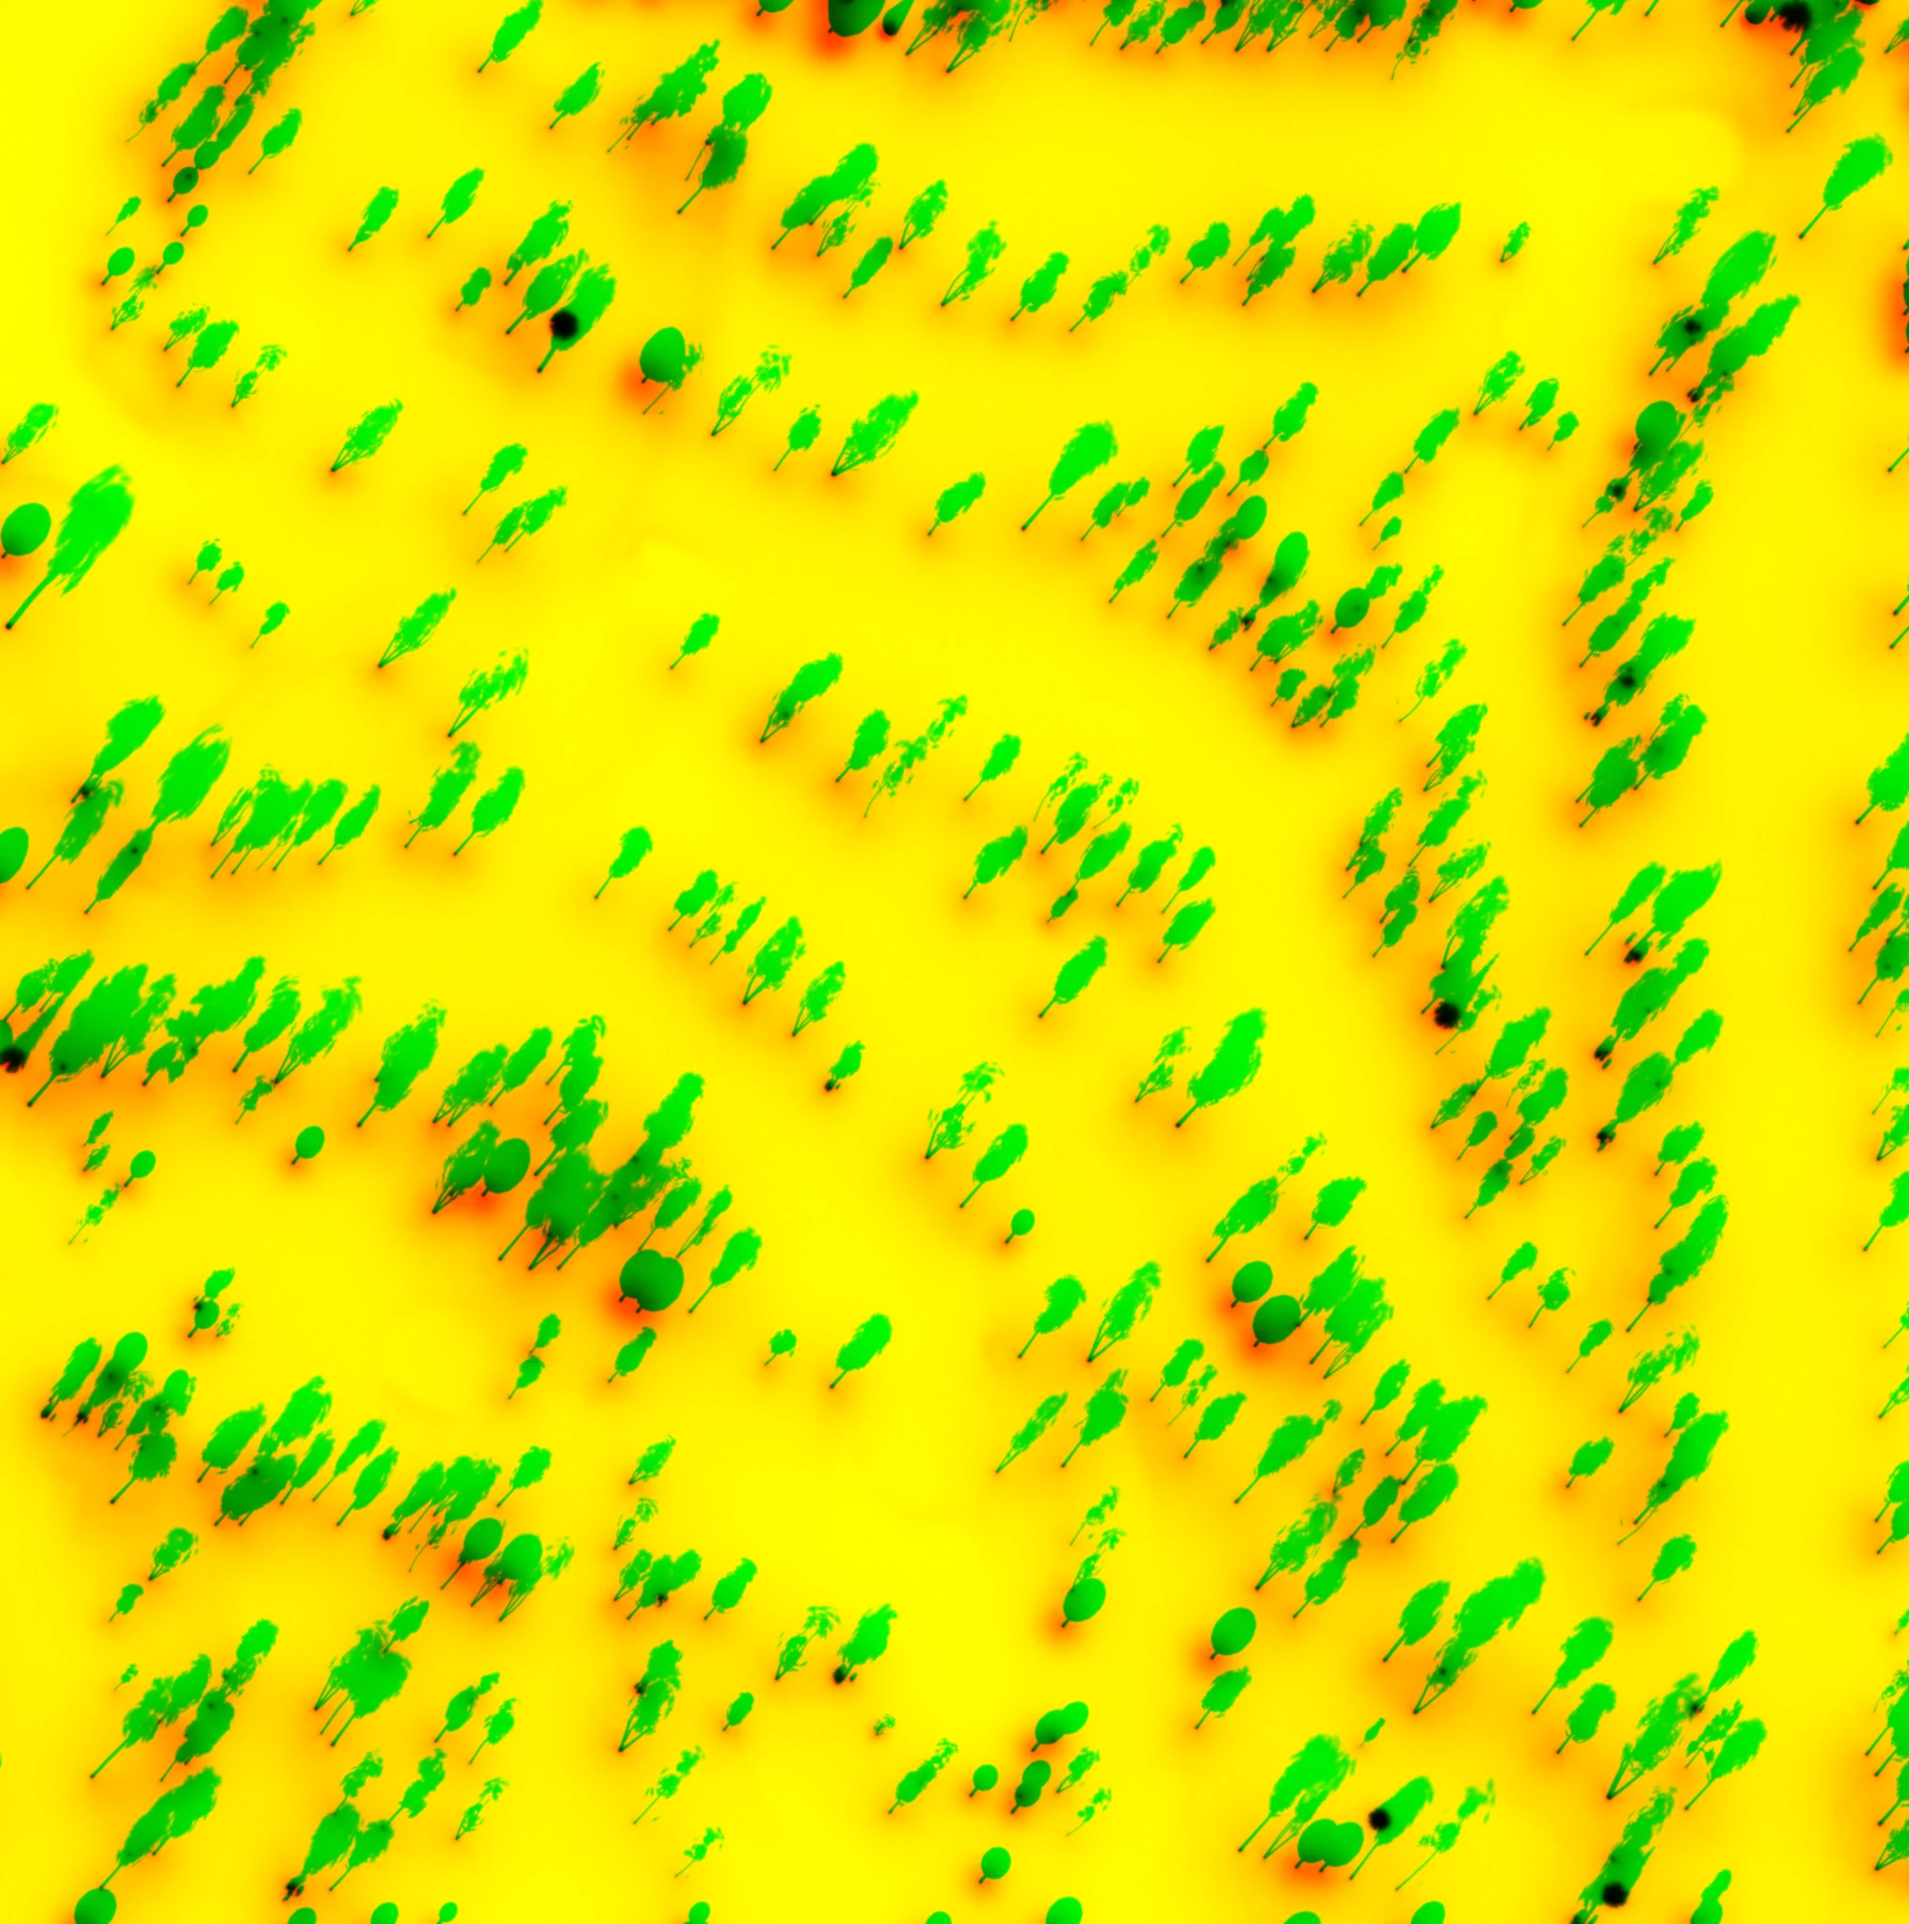
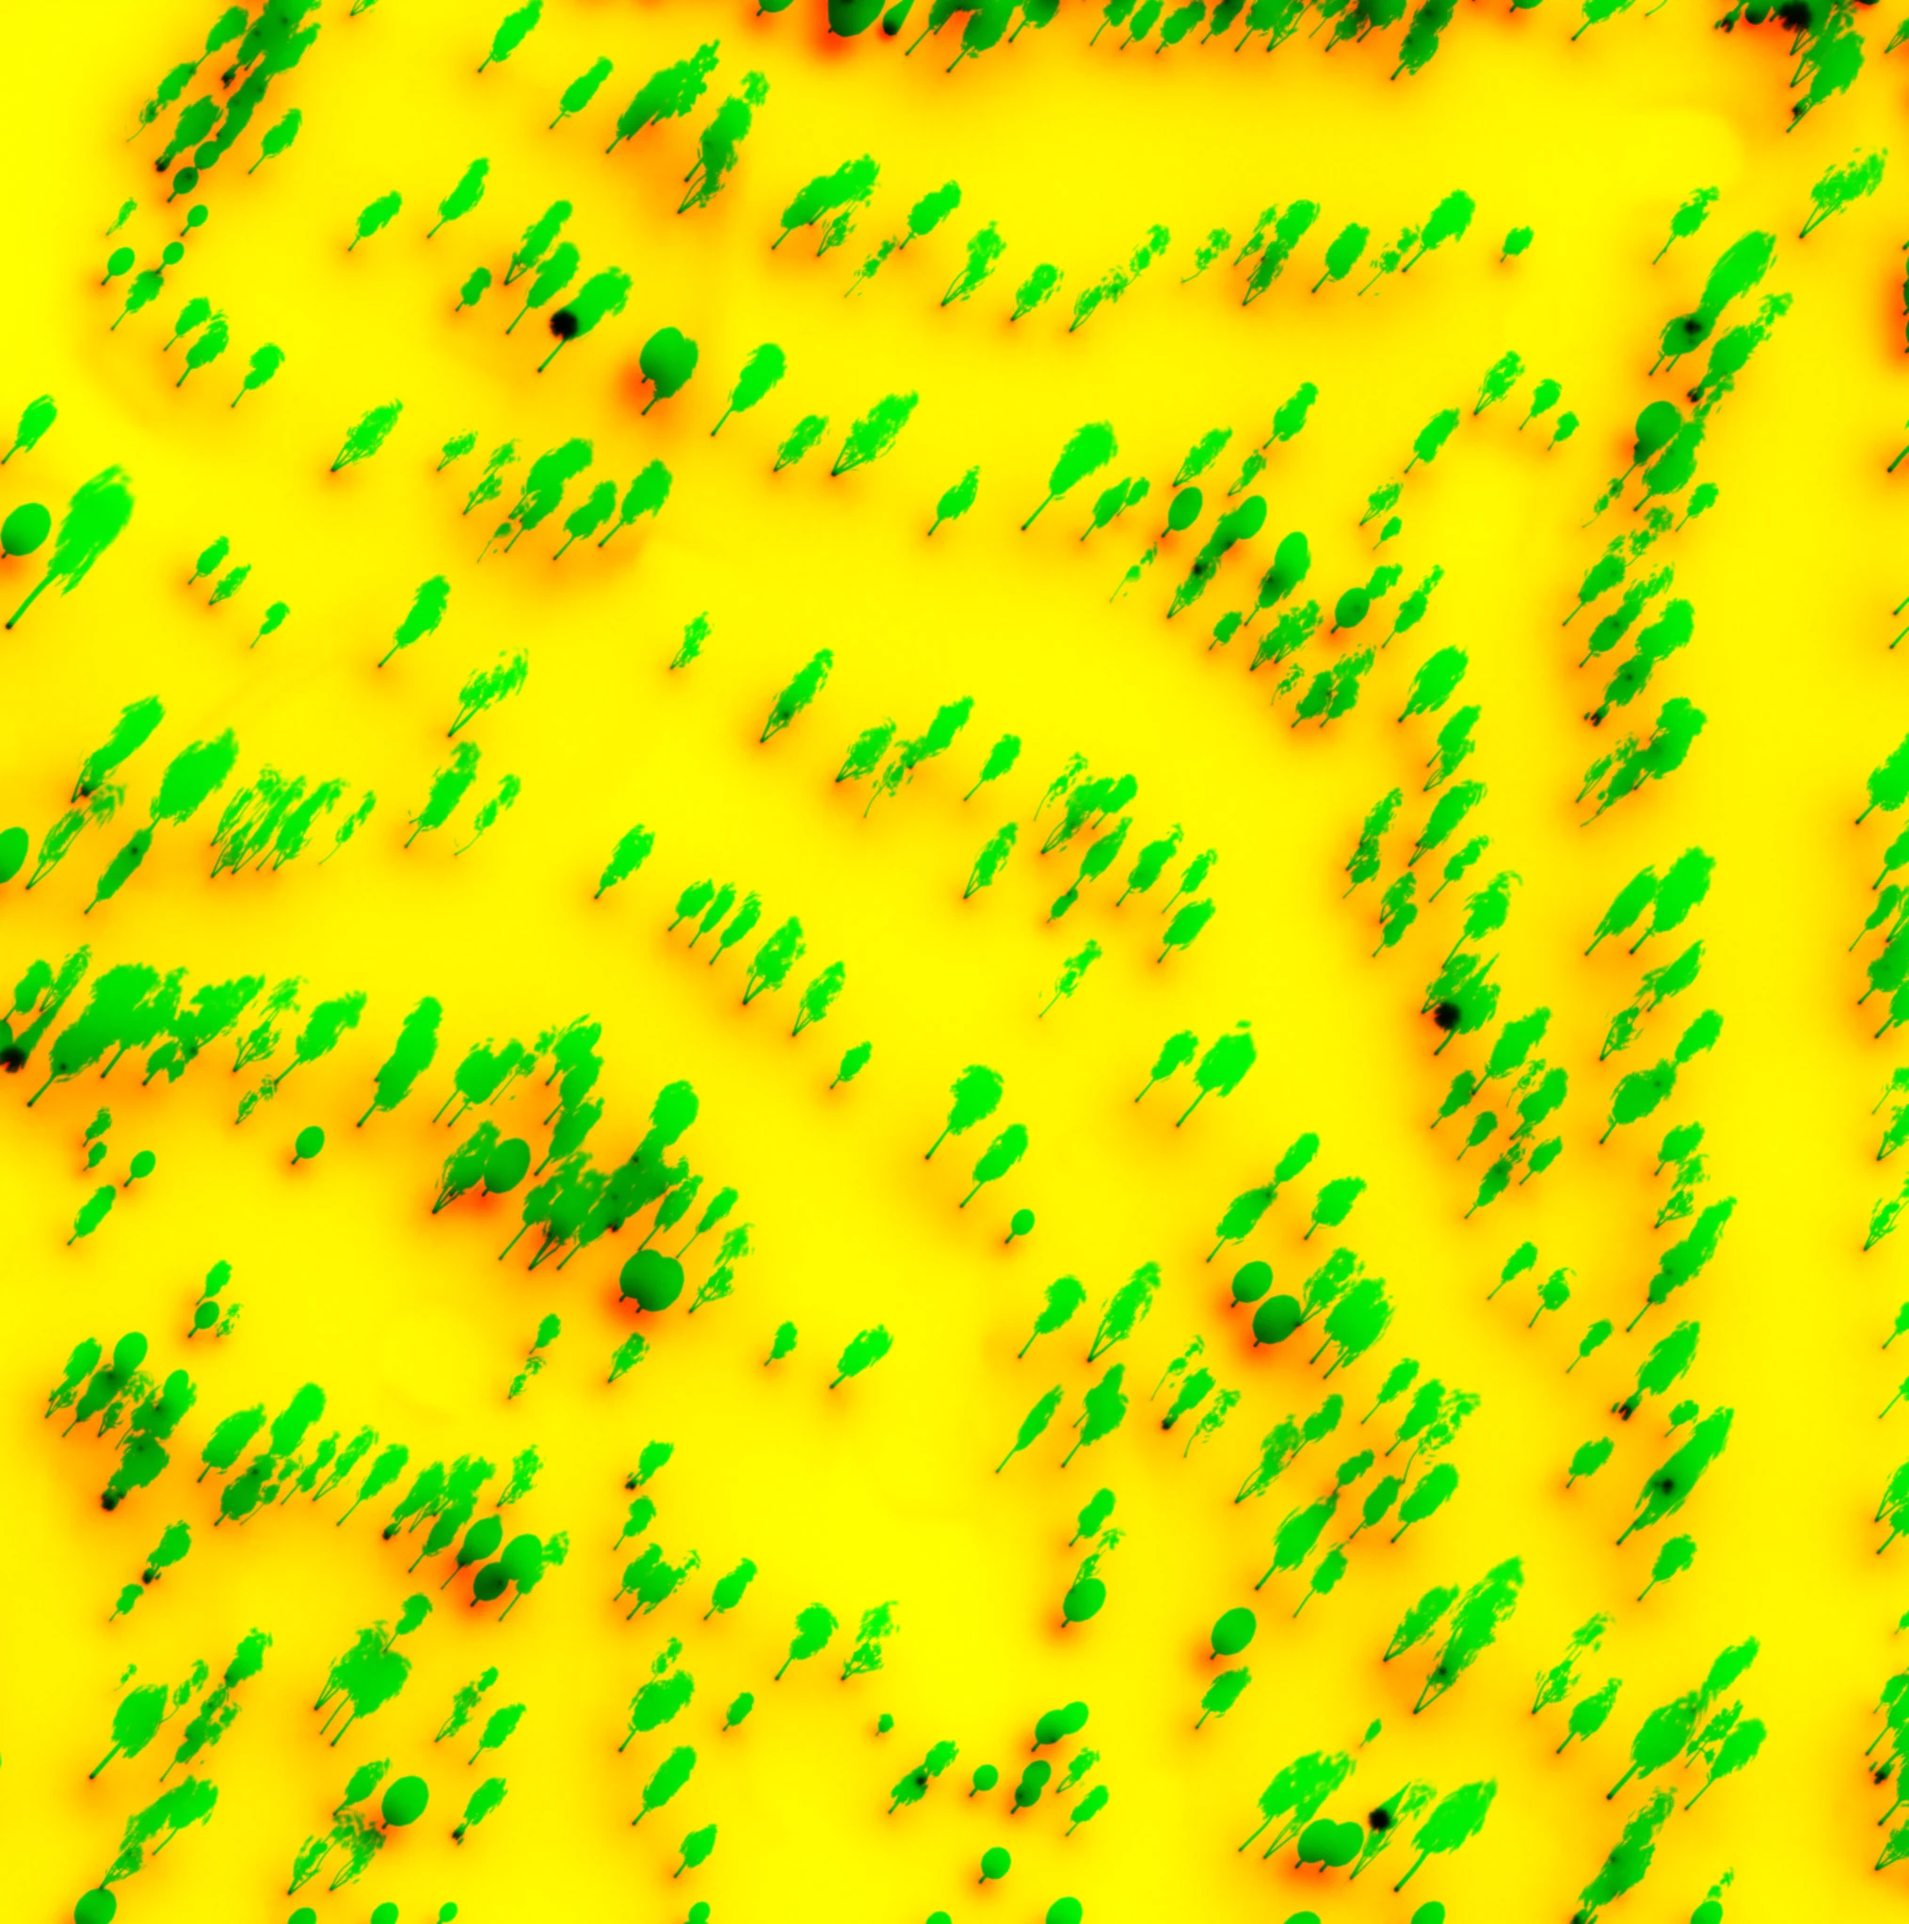
Blender light rebaked with the measured trees: lesueur

diff --git a/index.html b/index.html
@@ -2,7 +2,7 @@
 <html lang="en">
 <head>
 <meta charset="utf-8">
-<meta name="gg-build" content="b623d365d1">
+<meta name="gg-build" content="a9d0485285">
 <meta name="viewport" content="width=device-width,initial-scale=1,viewport-fit=cover">
 <meta name="apple-mobile-web-app-capable" content="yes">
 <meta name="mobile-web-app-capable" content="yes">
@@ -1086,7 +1086,7 @@ window.THREE={ACESFilmicToneMapping:et,AddEquation:y,AddOperation:J,AdditiveAnim
 <script src="data/COURSE_IMG.js?v=83e455c590"></script>
 <!-- /data files -->
 <!-- game code: tools/datafiles.py (the game is in src/) -->
-<script>(function(){var P=["src/start.js?v=d8ceba60e2","src/clubs-and-surfaces.js?v=2366f36b03","src/hole-construction-from-the.js?v=5917786f31","src/terrain-height.js?v=45f0d61487","src/terrain-texture.js?v=a3e96548c6","src/lighting-shared-by-every.js?v=cd5a62476a","src/realism.js?v=aa16e80b0d","src/surroundings.js?v=74bd8e969d","src/built-things.js?v=caf12313ab","src/sky-dome.js?v=1c137437ce","src/webgl-ground.js?v=5d371faab8","src/state.js?v=5c08b2329b","src/sound.js?v=e6a171fee3","src/ui-helpers.js?v=101dacc8d1","src/flow.js?v=395fe450d7","src/save-file.js?v=e43f4a4f59","src/daily-round.js?v=42f004308e","src/a-golfer-s-daily.js?v=69fbae0731","src/menu.js?v=58010d20df","src/pause-screen-and-feedback.js?v=b5ab620041","src/v107-help-and-faq.js?v=73740ead25","src/course-requests.js?v=1b264636bf","src/career.js?v=8c56e6444d","src/golfers.js?v=ac0e2525f8","src/match-state.js?v=7a407e7535","src/the-rival-s-shot.js?v=aedfc0dd26","src/career-screens.js?v=834dde70da","src/camera.js?v=72b4256890","src/3d-meshes.js?v=031d0e6eb9","src/divots.js?v=5d712295af","src/feel.js?v=cc5f67f75b","src/render.js?v=bbfcd83bef","src/choosing-a-golfer.js?v=59f6ffe37b","src/arm-ik.js?v=c811e42afd","src/real-tree-positions-from.js?v=47b995f4ab","src/shader-patches-shared-by.js?v=1d67bace22","src/ground.js?v=95a21c663d","src/sky.js?v=cb305a137b","src/weather.js?v=1fc7d09e82","src/per-hole-scene-content.js?v=627596aff0","src/immediate-mode-primitives.js?v=0052447815","src/camera-straight-from-v.js?v=1bad554182","src/post-chain.js?v=d105739265","src/hud.js?v=49f3bf64c8","src/loop.js?v=25bd5af309","src/saved-shots.js?v=fceb4c1d72","src/input.js?v=617ca25b59","src/home-screen.js?v=124d004c02","src/sizing.js?v=67b1e861b4","src/boot.js?v=364c778f34"],t="",i,x;for(i=0;i<P.length;i++){x=new XMLHttpRequest();x.open("GET",P[i],false);x.send();if(x.status!==200&&x.status!==0)throw new Error("game code: could not load "+P[i]);t+=x.responseText;}var s=document.createElement("script");s.text="\n"+t+"//# sourceURL=game.js\n";document.currentScript.after(s);})();</script>
+<script>(function(){var P=["src/start.js?v=d8ceba60e2","src/clubs-and-surfaces.js?v=2366f36b03","src/hole-construction-from-the.js?v=5917786f31","src/terrain-height.js?v=45f0d61487","src/terrain-texture.js?v=a3e96548c6","src/lighting-shared-by-every.js?v=cd5a62476a","src/realism.js?v=aa16e80b0d","src/surroundings.js?v=74bd8e969d","src/built-things.js?v=caf12313ab","src/sky-dome.js?v=1c137437ce","src/webgl-ground.js?v=5d371faab8","src/state.js?v=5c08b2329b","src/sound.js?v=e6a171fee3","src/ui-helpers.js?v=101dacc8d1","src/flow.js?v=395fe450d7","src/save-file.js?v=e43f4a4f59","src/daily-round.js?v=d3ff4e7b68","src/a-golfer-s-daily.js?v=69fbae0731","src/menu.js?v=58010d20df","src/pause-screen-and-feedback.js?v=b5ab620041","src/v107-help-and-faq.js?v=73740ead25","src/course-requests.js?v=1b264636bf","src/career.js?v=8c56e6444d","src/golfers.js?v=ac0e2525f8","src/match-state.js?v=7a407e7535","src/the-rival-s-shot.js?v=aedfc0dd26","src/career-screens.js?v=834dde70da","src/camera.js?v=72b4256890","src/3d-meshes.js?v=031d0e6eb9","src/divots.js?v=5d712295af","src/feel.js?v=cc5f67f75b","src/render.js?v=bbfcd83bef","src/choosing-a-golfer.js?v=59f6ffe37b","src/arm-ik.js?v=c811e42afd","src/real-tree-positions-from.js?v=47b995f4ab","src/shader-patches-shared-by.js?v=1d67bace22","src/ground.js?v=95a21c663d","src/sky.js?v=cb305a137b","src/weather.js?v=1fc7d09e82","src/per-hole-scene-content.js?v=627596aff0","src/immediate-mode-primitives.js?v=0052447815","src/camera-straight-from-v.js?v=1bad554182","src/post-chain.js?v=d105739265","src/hud.js?v=49f3bf64c8","src/loop.js?v=25bd5af309","src/saved-shots.js?v=fceb4c1d72","src/input.js?v=617ca25b59","src/home-screen.js?v=124d004c02","src/sizing.js?v=67b1e861b4","src/boot.js?v=364c778f34"],t="",i,x;for(i=0;i<P.length;i++){x=new XMLHttpRequest();x.open("GET",P[i],false);x.send();if(x.status!==200&&x.status!==0)throw new Error("game code: could not load "+P[i]);t+=x.responseText;}var s=document.createElement("script");s.text="\n"+t+"//# sourceURL=game.js\n";document.currentScript.after(s);})();</script>
 <!-- /game code -->
 
 <script>/* What's New. Add the newest update at the TOP of UPDATES; its id must be new each time. */

diff --git a/src/daily-round.js b/src/daily-round.js
@@ -79,7 +79,7 @@ function b10K(){const c=b10On()&&typeof B10BAKE!=='undefined'&&B10BAKE.courses?B
   if(c&&typeof tlOn==='function'&&tlOn()!==!!c.mt)return null;   // light baked with other trees than the ones standing (measured vs photo): live shadows instead
   return c&&c.holes?c.holes[G.hi]||null:null;}   // this hole's baked light (b: bounds, png)
 function b10Hole(){return !!b10K();}
-function b10Load(done){const L=['b10/bake.js?v=56','b10/trees.js?v=3'];window.B10LEAF='b10/leaves.webp?v=1';let n=L.length;for(const s of L){const e=document.createElement('script');e.src=s;e.onload=e.onerror=()=>{if(--n===0)done();};document.head.appendChild(e);}}
+function b10Load(done){const L=['b10/bake.js?v=57','b10/trees.js?v=3'];window.B10LEAF='b10/leaves.webp?v=1';let n=L.length;for(const s of L){const e=document.createElement('script');e.src=s;e.onload=e.onerror=()=>{if(--n===0)done();};document.head.appendChild(e);}}
 function b10Trees(P){const dec=(s,T)=>{const b=atob(s),u=new Uint8Array(b.length);for(let i=0;i<b.length;i++)u[i]=b.charCodeAt(i);return new T(u.buffer);};
   const arr=(r,st)=>{const Pp=dec(r.P,Int16Array),N=dec(r.N,Int8Array),C=dec(r.C,Uint8Array),U=r.U?dec(r.U,Int16Array):null,o=new Array(r.n*st);
     for(let i=0;i<r.n;i++){const k=i*st;o[k]=Pp[i*3]/1000;o[k+1]=Pp[i*3+1]/1000;o[k+2]=Pp[i*3+2]/1000;o[k+3]=N[i*3]/127;o[k+4]=N[i*3+1]/127;o[k+5]=N[i*3+2]/127;

diff --git a/sw.js b/sw.js
@@ -1,6 +1,6 @@
 /* Golf Go offline cache. The page is checked online first (so updates show straight away) and falls back to the copy on
    this phone; course data carries a version tag (?v=…) and is kept until it changes; leaderboards always go to the network. */
-const V='29a6335d4d',B='b623d365d1',CORE='core-'+V,ASSETS='assets';
+const V='debce5eed5',B='a9d0485285',CORE='core-'+V,ASSETS='assets';
 const CORE_FILES=['./','index.html','manifest.webmanifest','icon-192.png','icon-512.png','apple-touch-icon.png'];
 const DATA=["greens.js?v=ddebd5522b", "ground.js?v=03f35d14ec", "trees.js?v=82dc6373f7", "char%20ch12.js?v=lg2", "char%20remy.js?v=lg2", "char%20ch01.js?v=lg2", "char_ch08.js?v=lg2", "char_ch42.js?v=lg2", "char_ch23.js?v=lg2", "char%20ch28.js?v=lg2", "char_mx_joe.js?v=lg2", "char_ch17.js?v=lg2", "char_mh_tyger.js?v=m4", "char_mh_jack.js?v=m4", "char_mh_arnie.js?v=m4", "char_mh_phil.js?v=m4", "char_mh_rory.js?v=m4", "char_mh_scotty.js?v=m4", "char_mh_seve.js?v=m4", "char_mh_barry.js?v=m4", "char_mh_hoagan.js?v=m4", "char_mh_payne.js?v=m4"];   // current versioned data files
 const PRE=[];   // publish build: the shared graphics files (a/ga_*.js?v=…), saved at install so even the first launch offline works
